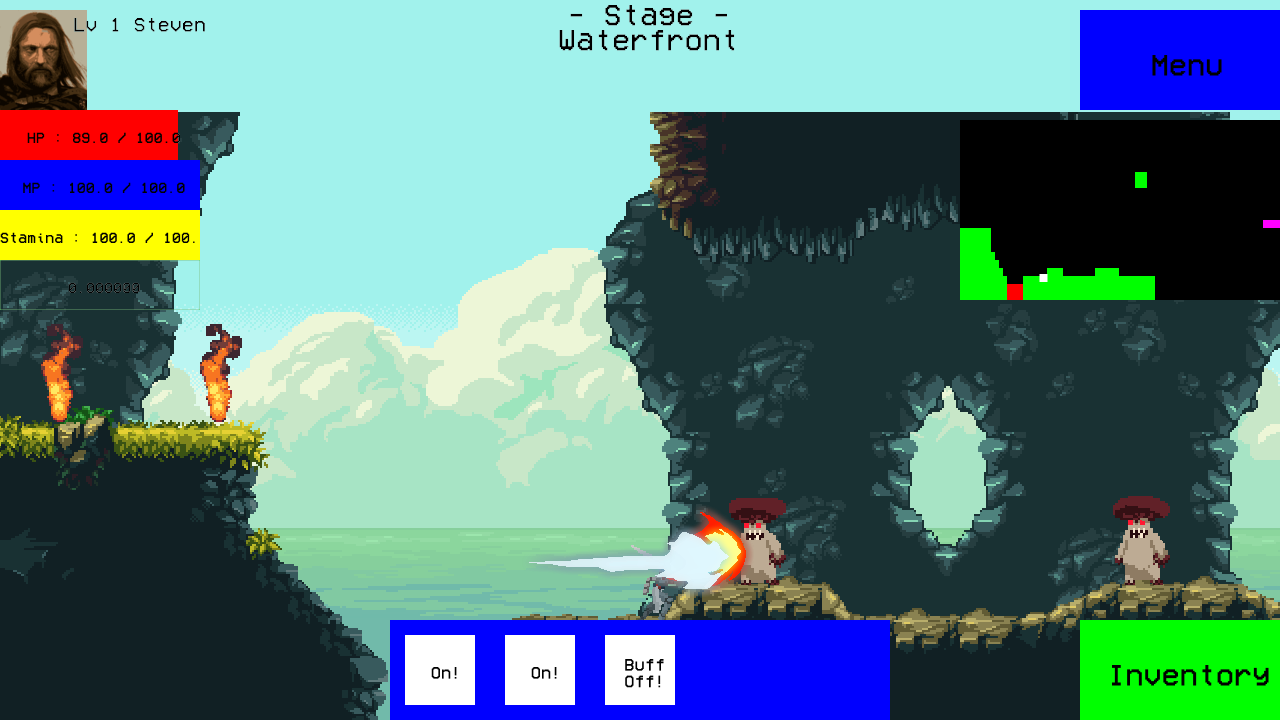
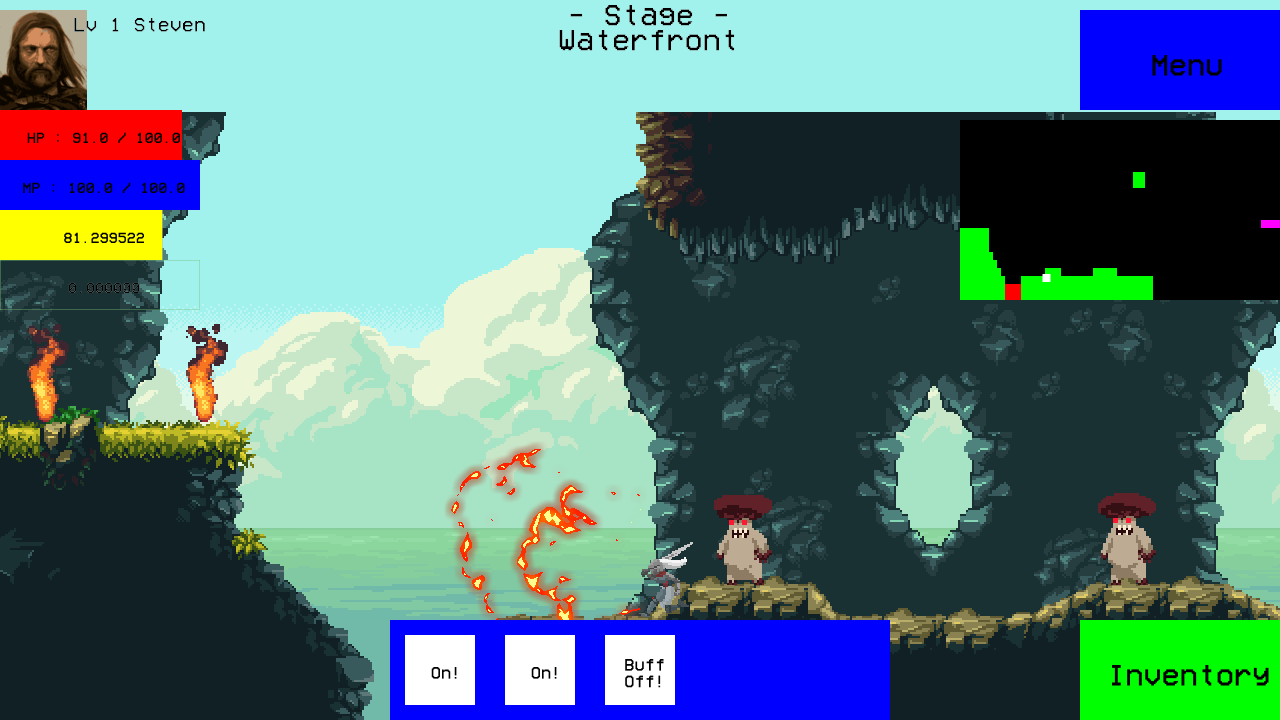
#academy
20.08.11
투사체 충돌 판정 수정중...

diff --git a/OpenGL-portfolio/GameObject/GameEffect.cpp b/OpenGL-portfolio/GameObject/GameEffect.cpp
@@ -54,6 +54,7 @@ void drawNumber(float dt, iPoint off)
 				damage[j] = damage[1 + j];
 			i--;
 		}
+
 	}
 }
 void addNumber(int dmg, iPoint position)
@@ -177,6 +178,7 @@ struct Projectile
 	iSize rectSize = iSizeMake(32, 32);
 	//Object** target;
 	int shooter; // 0 : player , 1: enermy;
+	float damage;
 
 	bool paint(float dt, iPoint off)
 	{
@@ -292,6 +294,11 @@ void freeProjectile()
 	free(projectile);
 }
 
+#include "Player.h"
+extern Player* hero;
+extern Object** goblins;
+extern Monster** mushrooms;
+
 
 
 void drawProjectile(float dt, iPoint off)
@@ -303,6 +310,32 @@ void drawProjectile(float dt, iPoint off)
 			projectNum--;
 			for (int j = i; j < projectNum; j++)
 				projectile[j] = projectile[1 + j];
+		}
+		if (projectile[i]->shooter == 0) // 발사한 오브젝트가 player 일때
+		{
+			for (int j = 0; j < goblin_Num; j++)
+			{
+				if (containRect(projectile[i]->img->touchRect(), goblins[j]->img->touchRect()))
+				{
+					printf("goblins[%d] hit!\n", j);
+				}
+
+			}
+			for (int j = 0; j < mush_Num; j++)
+			{
+				if (containRect(projectile[i]->img->touchRect(), mushrooms[j]->img->touchRect()))
+				{
+					printf("mushrooms[%d] hit!\n", j);
+				}
+
+			}
+		}
+		else if (projectile[i]->shooter == 1) // 발사한 오브젝트가 enermy 일때
+		{
+			if (containRect(projectile[i]->img->touchRect(), hero->img->touchRect())) // 적이 쏜 투사체와 플레이어가 충돌하였을때
+			{
+				printf("player hit!\n");
+			}
 		}
 
 	}

diff --git a/OpenGL-portfolio/GameObject/Parents/Monster.h b/OpenGL-portfolio/GameObject/Parents/Monster.h
@@ -1,6 +1,9 @@
 #pragma once
 #include "CanMove.h"
 
+#define mush_Num 2
+#define goblin_Num 10
+
 class Monster : public CanMove
 {
 public:
